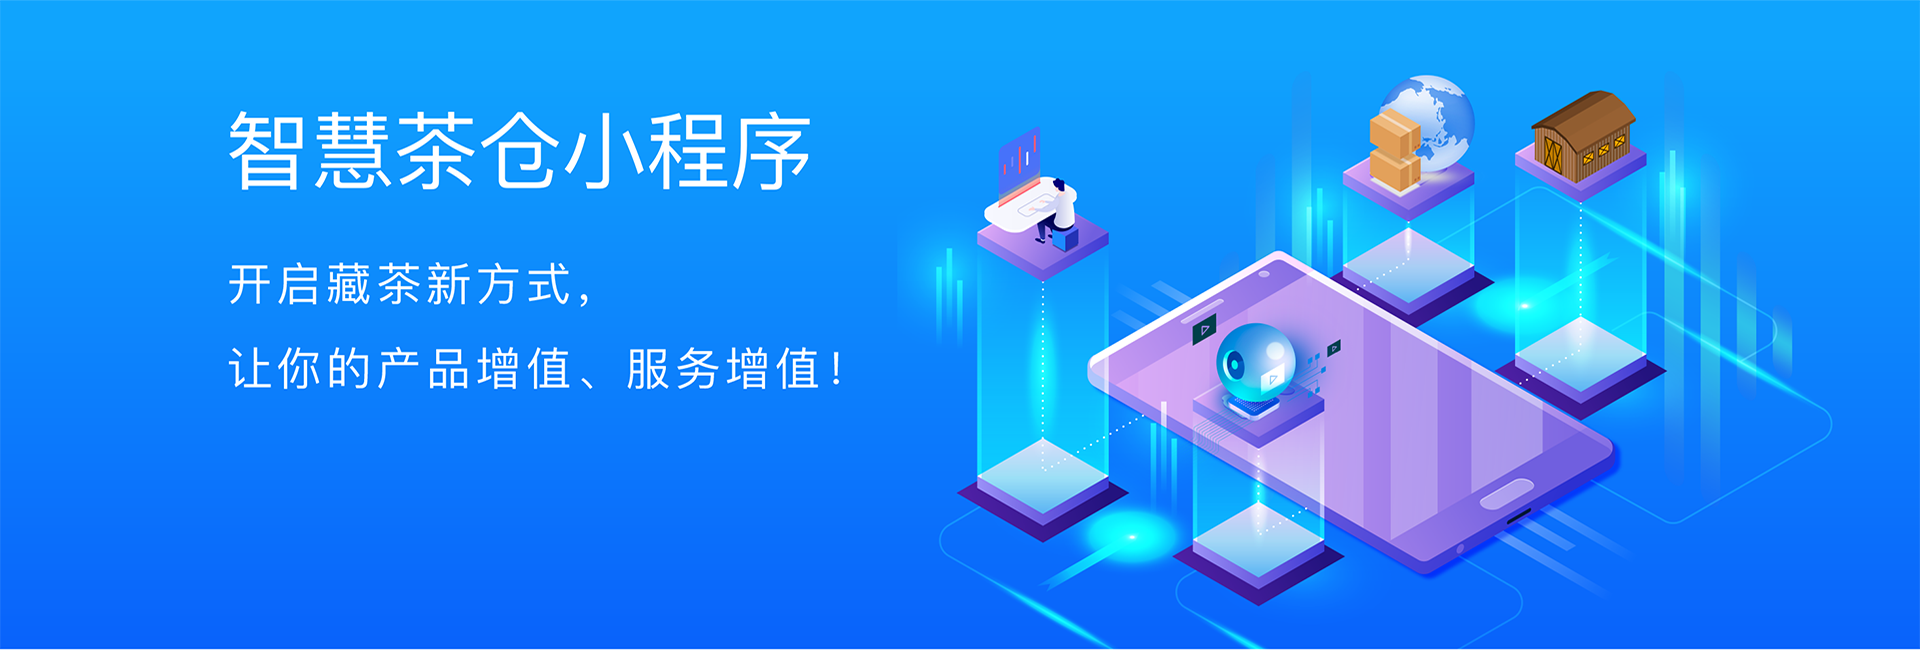
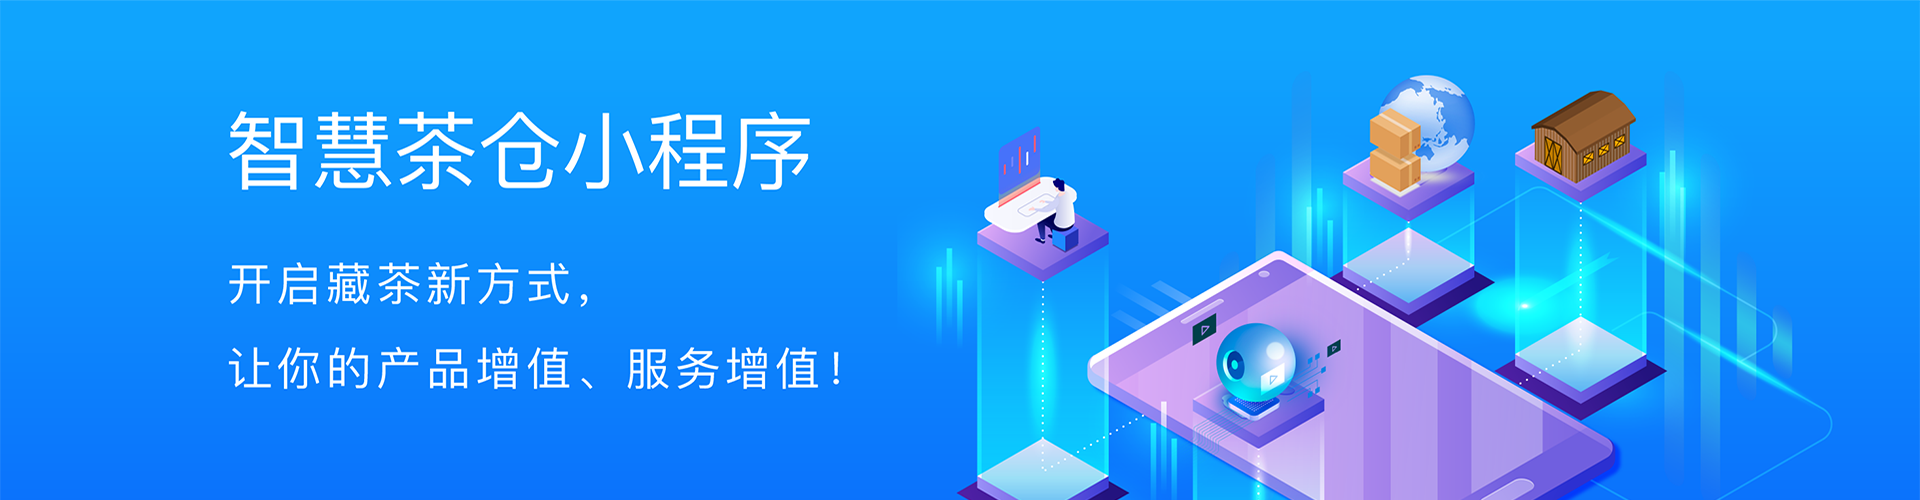
push

diff --git a/public/static/index/css/index.css b/public/static/index/css/index.css
@@ -1,5 +1,5 @@
 /* banner */
-.banner img{width: 100%; height: 650px;}
+.banner img{width: 100%; height: 500px;}
 
 /* 智慧茶仓 */
 .zhcc{background-color: #f8f8f8;}
